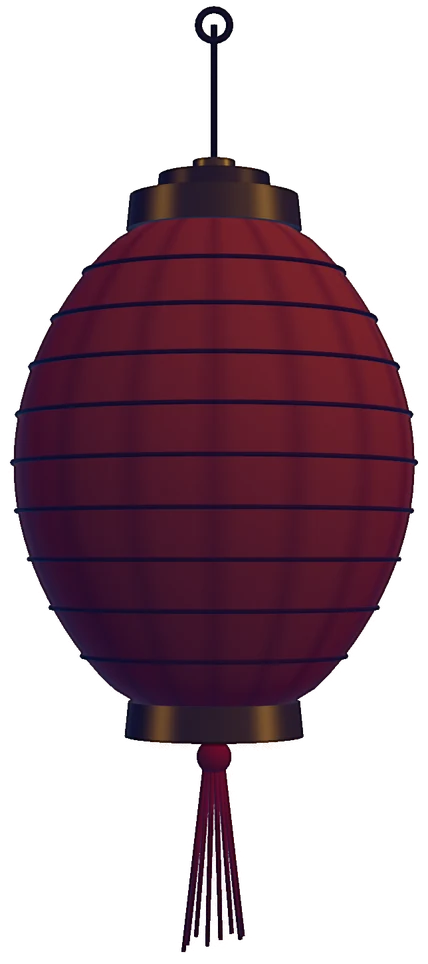
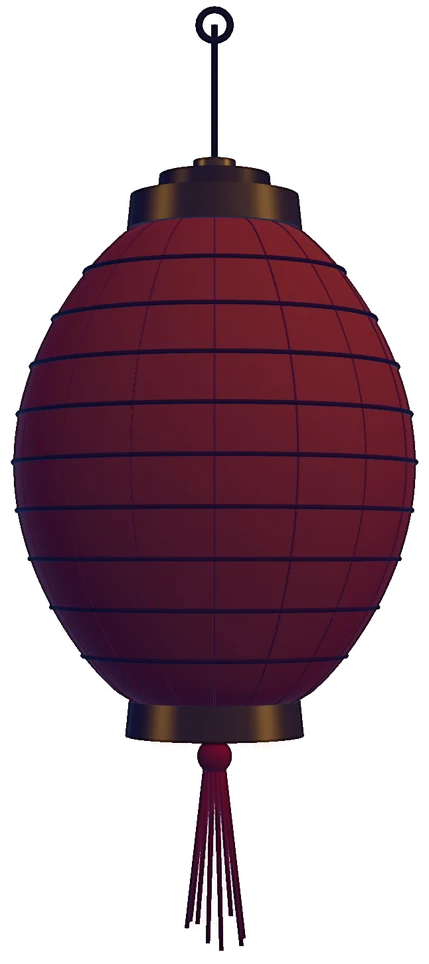
fix(gate): crisp paper, and a lantern that rests still
The owner still read the lantern as blurry on a phone. Two causes:

- The paper seams were vertex colours spread across 64 lathe segments,
  so they showed as wide, fuzzy bands, and the paper had no fine
  detail at all. The lab now draws the seams as thin lines, gives the
  paper a fine washi fibre map, and widens the lens slab so the whole
  lantern stays in focus.
- The lantern swing and the branch breeze turned their layers on every
  frame, and the compositor resampled them. That cost about 15% of the
  edge contrast on a 2.4x phone. At rest the lantern and the branch now
  hold still. A hover or a tap still swings the lantern, and it settles
  back still.

The idle life now comes from the glow flicker, the sky and two leaves
that drift down from the branch now and then, once the lamp is lit.

diff --git a/src/lab/gate-lantern-lab.js b/src/lab/gate-lantern-lab.js
@@ -151,24 +151,52 @@ function buildLeaves(material, branch, palette) {
     return group
 }
 
-function buildLantern(toon, litPaper) {
+// Washi paper: short fine fibres on white. The map multiplies the paper colour, so the paper
+// keeps a fine, sharp grain at any size. Without it the paper was one smooth gradient and read as
+// out of focus. A soft mottle read as smudges, so the paper has none.
+function washiTexture() {
+    const canvas = document.createElement('canvas')
+    canvas.width = canvas.height = 1024
+    const g = canvas.getContext('2d')
+    g.fillStyle = '#ffffff'
+    g.fillRect(0, 0, 1024, 1024)
+    g.lineCap = 'round'
+    for (let i = 0; i < 1800; i++) {
+        const x = rnd() * 1024
+        const y = rnd() * 1024
+        const a = rnd() * Math.PI
+        const l = 8 + rnd() * 46
+        g.strokeStyle = `rgba(110,70,40,${0.06 + rnd() * 0.1})`
+        g.lineWidth = 0.6 + rnd() * 0.9
+        g.beginPath()
+        g.moveTo(x, y)
+        g.quadraticCurveTo(x + Math.cos(a + 0.4) * l * 0.5, y + Math.sin(a + 0.4) * l * 0.5, x + Math.cos(a) * l, y + Math.sin(a) * l)
+        g.stroke()
+    }
+    const texture = new THREE.CanvasTexture(canvas)
+    texture.colorSpace = THREE.SRGBColorSpace
+    texture.wrapS = texture.wrapT = THREE.RepeatWrapping
+    texture.repeat.set(3, 1.2)
+    texture.anisotropy = 8
+    return texture
+}
+
+function buildLantern(toon, litPaper, paperToon) {
     const group = new THREE.Group()
+    const seamBasic = new THREE.MeshBasicMaterial({ vertexColors: true })
     const dark = (hex) => (geometry) => paint(geometry, (p, c) => c.set(hex))
     const profile = []
-    for (let i = 0; i <= 32; i++) {
-        const y = -0.16 + (i / 32) * 0.32
+    for (let i = 0; i <= 48; i++) {
+        const y = -0.16 + (i / 48) * 0.32
         profile.push(new THREE.Vector2(bodyRadius(y), y * 1.12))
     }
-    const body = new THREE.LatheGeometry(profile, 64)
+    const body = new THREE.LatheGeometry(profile, 128)
     const view = new THREE.Vector3(0, 0.05, 1).normalize()
     const n = new THREE.Vector3()
     const normals = body.attributes.normal
     paint(body, (p, c, i) => {
-        // Faint seams where the paper strips meet.
-        const angle = Math.atan2(p.z, p.x)
-        const seam = Math.pow(Math.abs(Math.cos(angle * 8)), 40)
         if (!litPaper) {
-            c.copy(color(0xb4502a)).lerp(color(0x7a2a1a), seam * 0.5)
+            c.set(0xb4502a)
             return
         }
         // Lit paper: the flame shows through, brightest where the paper faces the camera at
@@ -178,10 +206,19 @@ function buildLantern(toon, litPaper) {
         const mid = Math.max(0, 1 - Math.pow(Math.abs(p.y) / 0.18, 2))
         const heat = Math.pow(facing, 1.4) * (0.35 + 0.65 * mid)
         c.copy(color(0x9a3014)).lerp(color(0xf0781e), Math.min(1, heat * 1.5)).lerp(color(0xffdc96), Math.max(0, heat - 0.5) * 1.5)
-        c.multiplyScalar(1 - seam * 0.35)
     })
     body.translate(LANTERN.x, LANTERN.y, LANTERN.z)
-    group.add(new THREE.Mesh(body, litPaper ?? toon))
+    group.add(new THREE.Mesh(body, litPaper ?? paperToon))
+
+    // The seams where the paper strips meet: thin lines a shade darker than the paper.
+    const seamTone = dark(litPaper ? 0xc8662a : 0x8a3420)
+    for (let k = 0; k < 16; k++) {
+        const angle = (k / 16) * Math.PI * 2
+        const points = profile.map((v) => new THREE.Vector3(Math.cos(angle) * (v.x + 0.0005), v.y, Math.sin(angle) * (v.x + 0.0005)))
+        const seam = seamTone(new THREE.TubeGeometry(new THREE.CatmullRomCurve3(points), 48, 0.0008, 4, false))
+        seam.translate(LANTERN.x, LANTERN.y, LANTERN.z)
+        group.add(new THREE.Mesh(seam, litPaper ? seamBasic : toon))
+    }
 
     // The bamboo ribs.
     const ribTone = dark(litPaper ? 0x7a3218 : 0x5a2416)
@@ -266,14 +303,20 @@ createLookControl(uniforms).apply(SITE_LOOK, pipeline.grade.uniforms)
 // The gate sky has no vignette, and a vignette would break the matte.
 pipeline.grade.uniforms.uVignette.value = 0
 pipeline.grade.uniforms.uFocus.value = camera.position.distanceTo(LANTERN)
+// A deeper sharp slab than the island stops use, so the whole lantern, front to back, stays in
+// focus. The branch ends still soften.
+pipeline.grade.uniforms.uLensBand.value = 0.22
 
 if (layer === 'branch' || layer === 'all') {
     const branch = buildBranch(toon)
     scene.add(branch.group, buildLeaves(toon, branch, lit ? AUTUMN : SUMMER))
 }
 if (layer === 'lantern' || layer === 'all') {
-    const paper = lit ? new THREE.MeshBasicMaterial({ vertexColors: true, side: THREE.DoubleSide }) : null
-    scene.add(buildLantern(toon, paper))
+    const washi = washiTexture()
+    const paper = lit ? new THREE.MeshBasicMaterial({ vertexColors: true, map: washi, side: THREE.DoubleSide }) : null
+    // The map changes the shader, so the unlit paper needs its own program key.
+    const paperToon = createToonMaterial(uniforms, { map: washi }, { key: 'aerie-toon-v3-map' })
+    scene.add(buildLantern(toon, paper, paperToon))
 }
 if (layer === 'sprites') scene.add(buildSprites(toon))
 

diff --git a/index.html b/index.html
@@ -112,8 +112,6 @@
       }
       .ga-branch {
         background-image: url(/gate/branch-s0.webp);
-        transform-origin: 50% 20%;
-        animation: ga-breeze 8s ease-in-out infinite alternate;
       }
       /* Autumn spreads along the branch from left to right as the load grows. */
       .ga-autumn {
@@ -121,26 +119,24 @@
         -webkit-mask: linear-gradient(90deg, #000 calc(var(--p) * 130% - 30%), transparent calc(var(--p) * 130%));
         mask: linear-gradient(90deg, #000 calc(var(--p) * 130% - 30%), transparent calc(var(--p) * 130%));
       }
-      /* Name.vue swings .ga-nudge on a hover or a tap. .ga-lantern keeps its own slow swing. */
+      /* Name.vue swings .ga-nudge on a hover or a tap. At rest the lantern and the branch hold
+         still: a turned layer is resampled on every frame, and that softens the ribs and the
+         paper grain. The idle life comes from the glow, the sky and the drifting leaves. */
       .ga-nudge,
       .ga-lantern {
         position: absolute;
         inset: 0;
         transform-origin: 50% 21.5%;
-        will-change: transform;
-      }
-      .ga-lantern {
-        animation: ga-swing 6s ease-in-out infinite alternate;
       }
       /* The lantern layers are a tight crop at a finer scale than the branch, so the lantern,
          the sharp middle of the picture, keeps its ribs crisp. scripts/gate-matte.py prints
          this box. */
       .ga-paper {
         inset: auto;
-        left: 37.42%;
+        left: 37.38%;
         top: 20.51%;
-        width: 25.16%;
-        height: 74.03%;
+        width: 25.23%;
+        height: 74.08%;
         background-image: url(/gate/lantern-s0.webp);
       }
       .ga-lit {
@@ -191,6 +187,21 @@
         background: url(/gate/sprites-s1.webp) calc(var(--s) * 33.333%) 0 / 400% 100% no-repeat;
         opacity: 0;
       }
+      /* Once the lamp is lit, a leaf now and then lets go of the branch and drifts down. */
+      .ga-drift {
+        left: var(--x);
+        top: var(--y);
+        width: 6.5%;
+        aspect-ratio: 1;
+        background: url(/gate/sprites-s1.webp) calc(var(--s) * 33.333%) 0 / 400% 100% no-repeat;
+        opacity: 0;
+      }
+      .is-lit .ga-drift {
+        animation: ga-drift var(--t) linear var(--d) infinite;
+      }
+      .is-open .ga-drift {
+        display: none;
+      }
       .is-open .ga-leaf {
         animation: ga-fall 3.6s cubic-bezier(0.4, 0, 0.7, 1) var(--d) both;
       }
@@ -212,18 +223,15 @@
         55% { opacity: 1; }
         80% { opacity: 0.9; transform: scale(1.012); }
       }
-      @keyframes ga-breeze {
-        from { transform: rotate(-0.35deg); }
-        to { transform: rotate(0.4deg) translateY(1px); }
+      @keyframes ga-drift {
+        0%, 62% { opacity: 0; transform: translate(0, 0) rotate(var(--r)) rotateX(0deg); }
+        66%, 92% { opacity: 1; }
+        100% { opacity: 0; transform: translate(-1.5rem, 60vh) rotate(calc(var(--r) + 200deg)) rotateX(480deg); }
       }
       @keyframes ga-bloom {
         0% { opacity: 0; transform: translate(-50%, -50%) scale(0.4); }
         35% { opacity: 1; }
         100% { opacity: 1; transform: translate(-50%, -50%) scale(9); }
-      }
-      @keyframes ga-swing {
-        from { transform: rotate(-1.4deg); }
-        to { transform: rotate(1.4deg); }
       }
       @keyframes ga-fall {
         0% { opacity: 1; transform: translate(0, 0) rotate(var(--r)) rotateX(0deg); }
@@ -460,6 +468,8 @@
             <i class="ga-img ga-paper ga-lit"></i>
           </div>
         </div>
+        <i class="ga-drift" style="--x:17.9%;--y:11.9%;--s:2;--r:40deg;--t:13s;--d:-4s"></i>
+        <i class="ga-drift" style="--x:71.2%;--y:22.2%;--s:3;--r:-110deg;--t:17s;--d:-12s"></i>
         <i class="ga-flare"></i>
         <i class="ga-bloom"></i>
         <i class="ga-leaf" style="--x:3.5%;--y:22.9%;--s:0;--r:143deg;--d:0.84s"></i>

diff --git a/src/components/Name.vue b/src/components/Name.vue
@@ -107,12 +107,13 @@ const onHover = (event) => {
     if (event.pointerType === 'mouse') swing(event)
 }
 
-// The button takes focus as soon as it works, so Enter goes straight in. Nothing else happens at
-// ready: the lantern stays lit until the visitor goes in.
+// The button takes focus as soon as it works, so Enter goes straight in. At ready the lantern
+// stays lit until the visitor goes in, and a leaf now and then drifts down (is-lit).
 watch(
     ready,
     async (value) => {
         if (!value) return
+        art?.classList.add('is-lit')
         await nextTick()
         enter.value?.focus({ preventScroll: true })
     },
